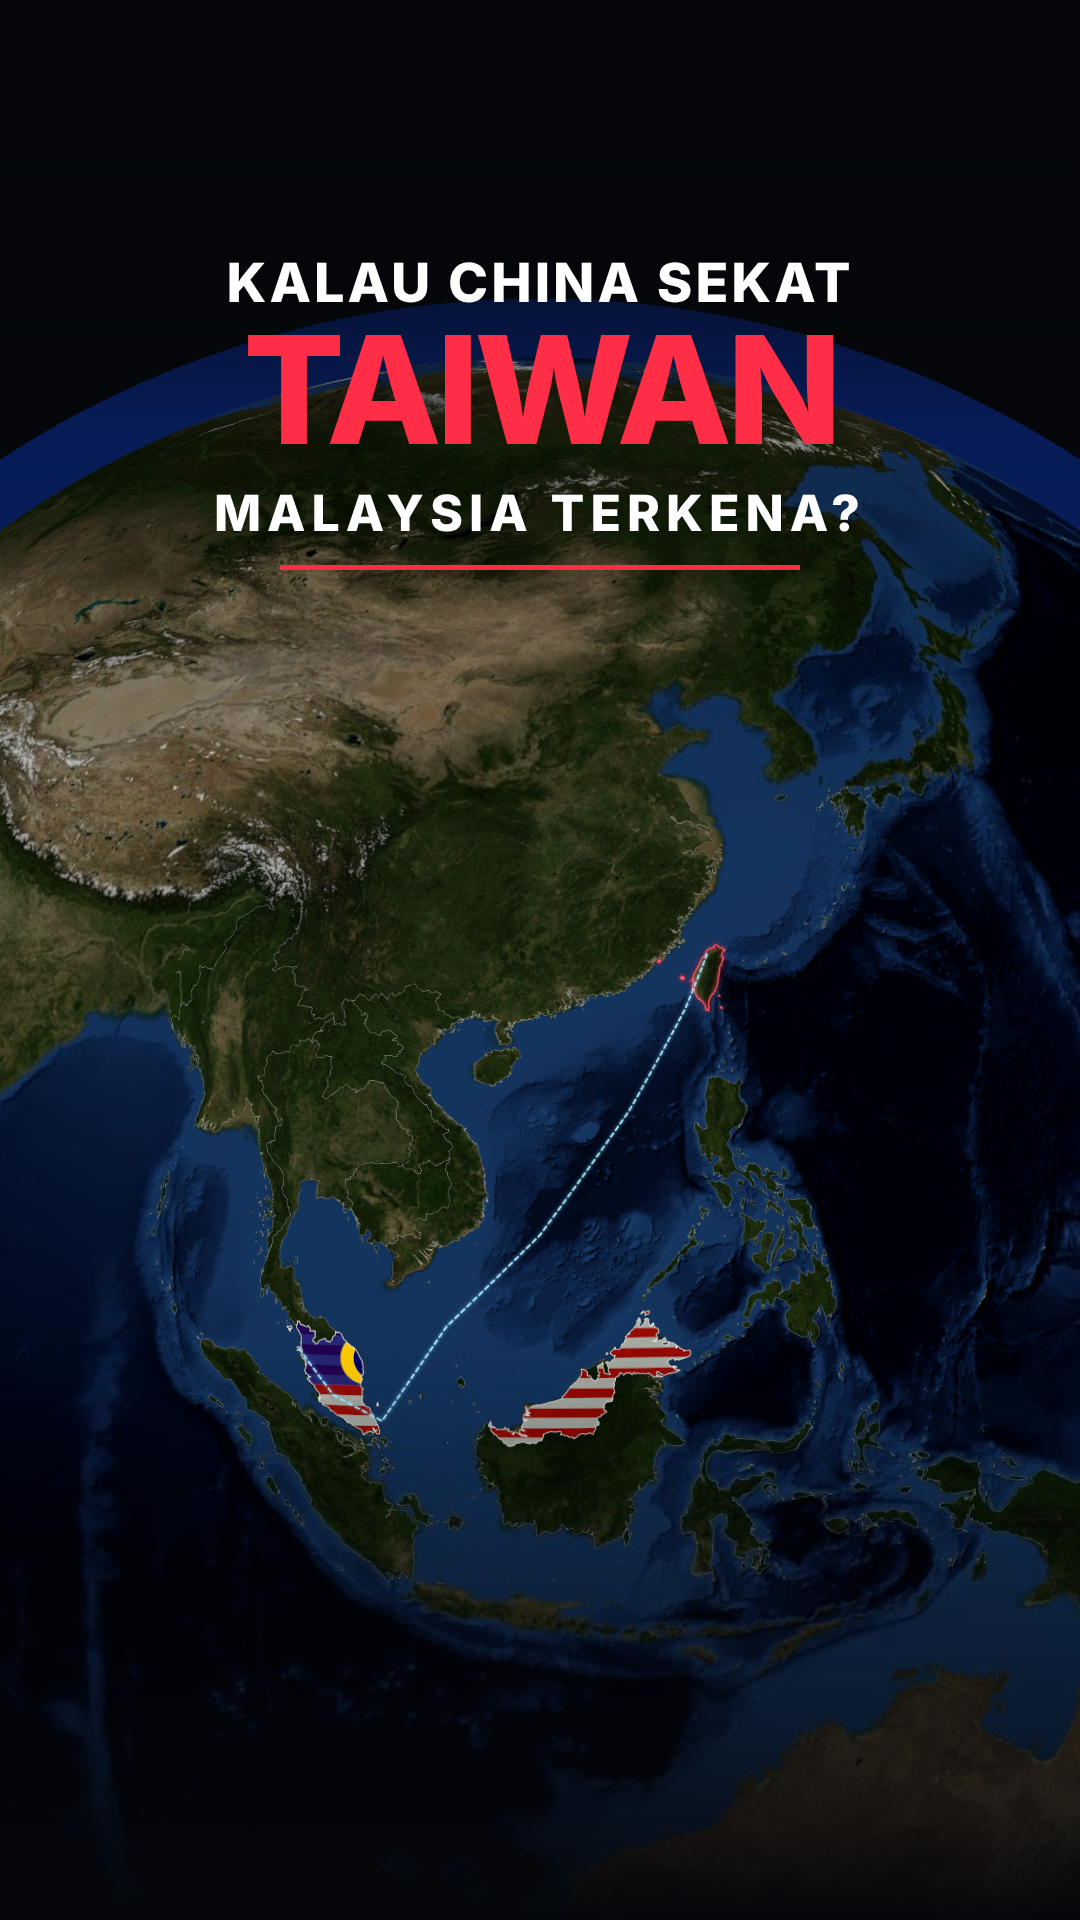
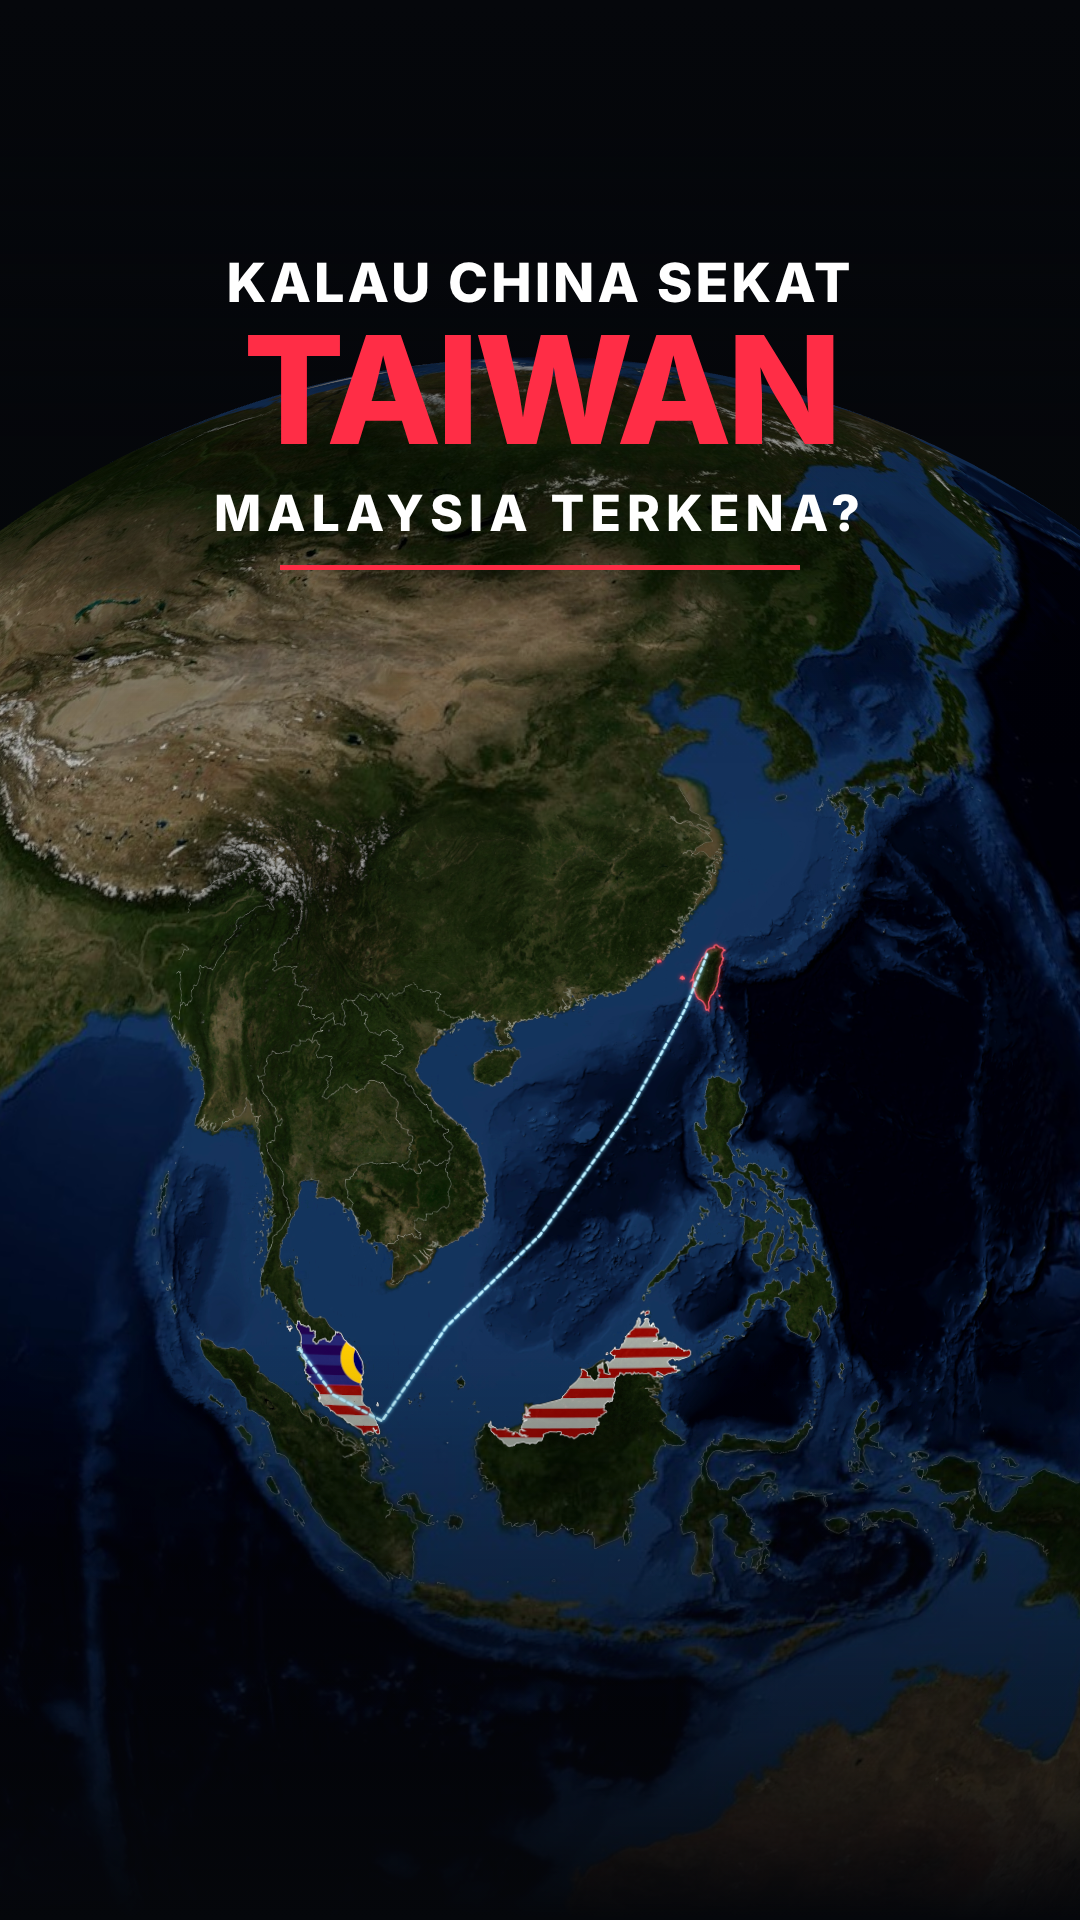
taiwan-video: remove globe atmosphere rim, add FLOW B-roll (ship, robot, wafer)
Claude-Session: https://claude.ai/code/session_01GRVCpWmiskqov5jCfdMsbZ

Changed region(s): [[0.0, 0.1562, 1.0, 0.2812], [0.5194, 0.5938, 0.55, 0.625], [0.4889, 0.625, 0.5194, 0.6562]]

diff --git a/taiwan-video/assets/globe.js b/taiwan-video/assets/globe.js
@@ -43,7 +43,8 @@ export async function createGlobe(canvas, { W, H, base = "assets/", scale = 1 } 
     vertexShader: "varying vec3 n; varying vec3 v; void main(){ n=normalize(normalMatrix*normal); vec4 mv=modelViewMatrix*vec4(position,1.); v=normalize(-mv.xyz); gl_Position=projectionMatrix*mv; }",
     fragmentShader: "uniform vec3 c; varying vec3 n; varying vec3 v; void main(){ float i=pow(1.0-abs(dot(n,v)),5.0)*0.0+pow(max(0.0,0.62-dot(n,v)),3.0)*2.2; gl_FragColor=vec4(c,clamp(i,0.,0.55)); }",
   }));
-  scene.add(atm);
+  // atmosphere rim removed (user: thick blue band at the globe edge)
+  // scene.add(atm);
 
   // Overlay layers on a regional patch
   // Each layer has its own lon/lat window and pixels-per-degree; draw with L.ox/L.oy.

diff --git a/.claude/skills/map-animation/SKILL.md b/.claude/skills/map-animation/SKILL.md
@@ -14,7 +14,7 @@ pure function of time). For 3D object explainers see `explainer-style`; for text
 
 ## 1. The look
 
-- **Globe:** NASA Blue Marble *topo + bathy* (August) on a sphere, dark space around it, thin blue atmosphere rim.
+- **Globe:** NASA Blue Marble *topo + bathy* (August) on a sphere, dark space around it, **no atmosphere rim** (the user found the blue band at the edge too thick; `scene.add(atm)` is commented out in `taiwan-video/assets/globe.js`).
   A hi-res regional patch (cropped from the 21600² BMNG tile) sits on top with a feathered edge so close-ups stay sharp.
   Base and patch **must be the same product** (bathy) or the ocean colour jumps.
 - **Borders:** thin white country lines from Natural Earth (`world-atlas@2.0.2` countries-10m TopoJSON), drawn on
